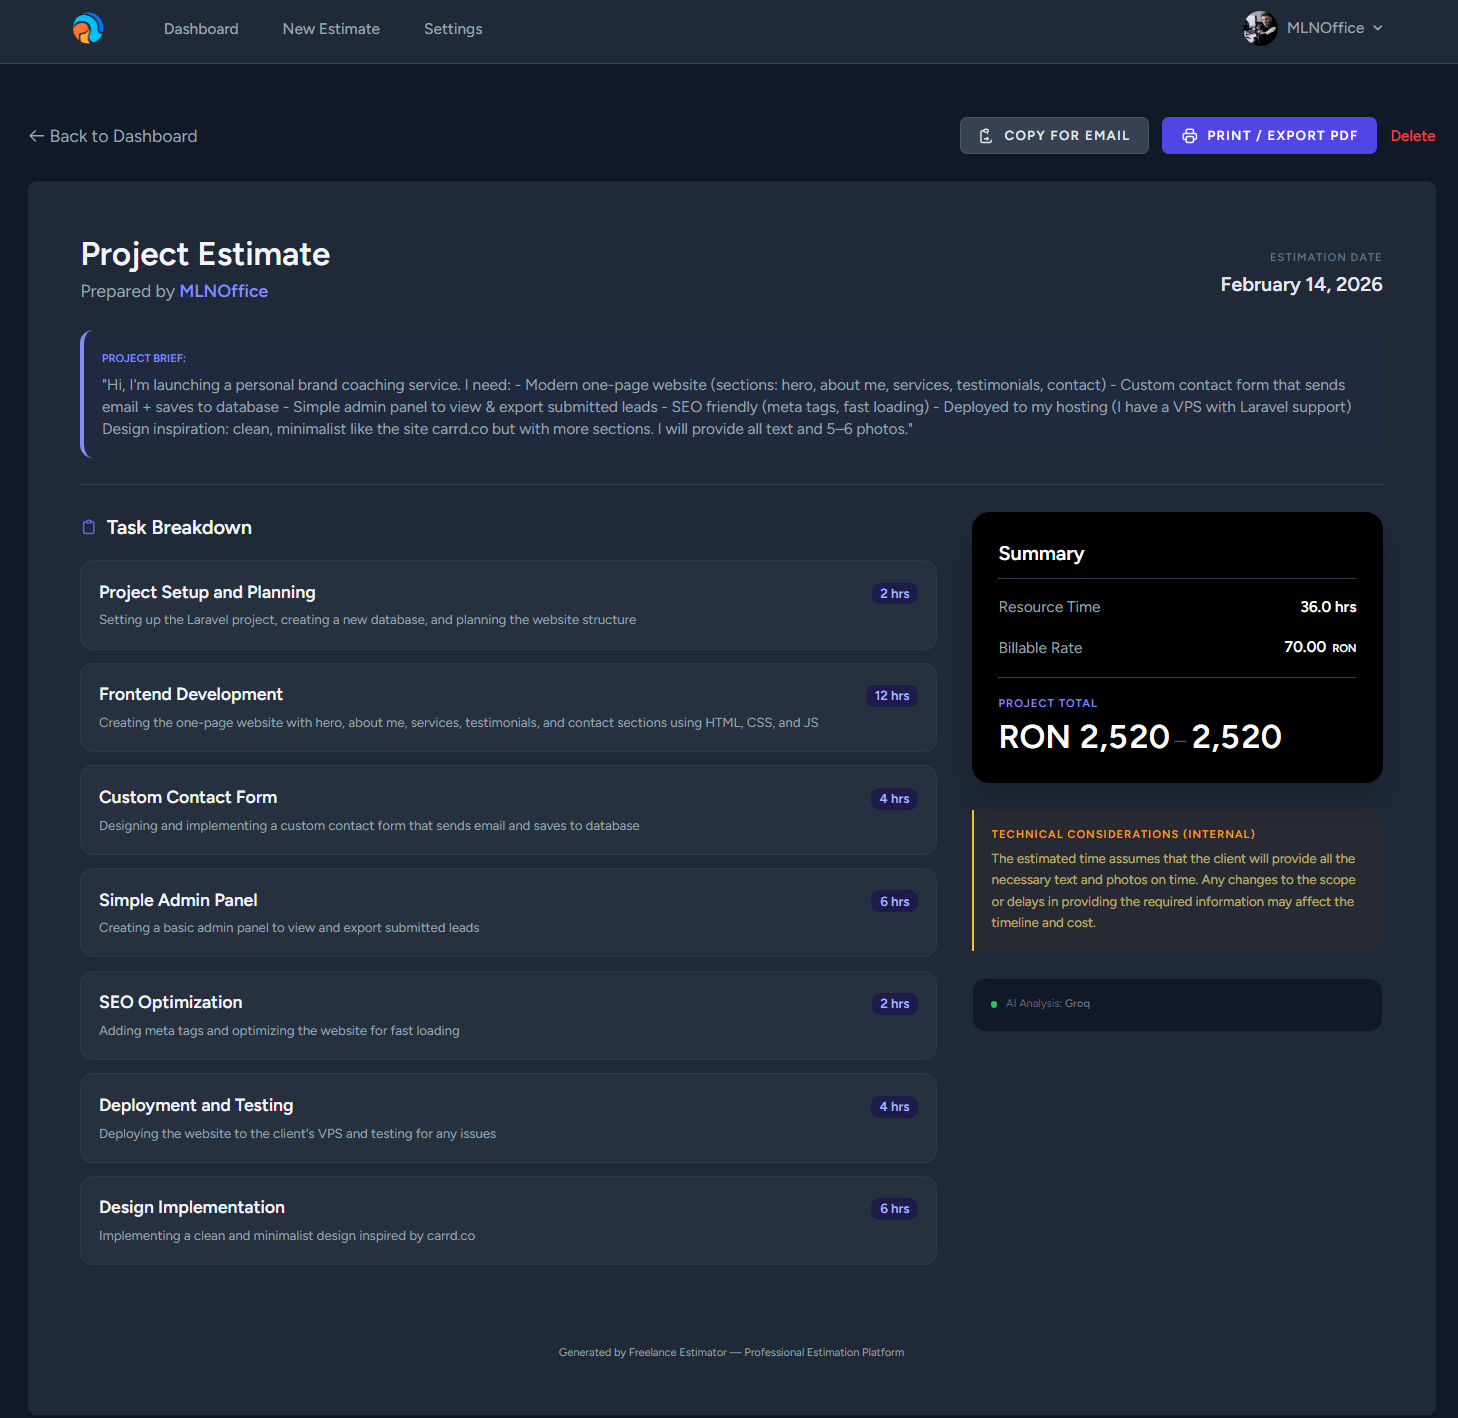
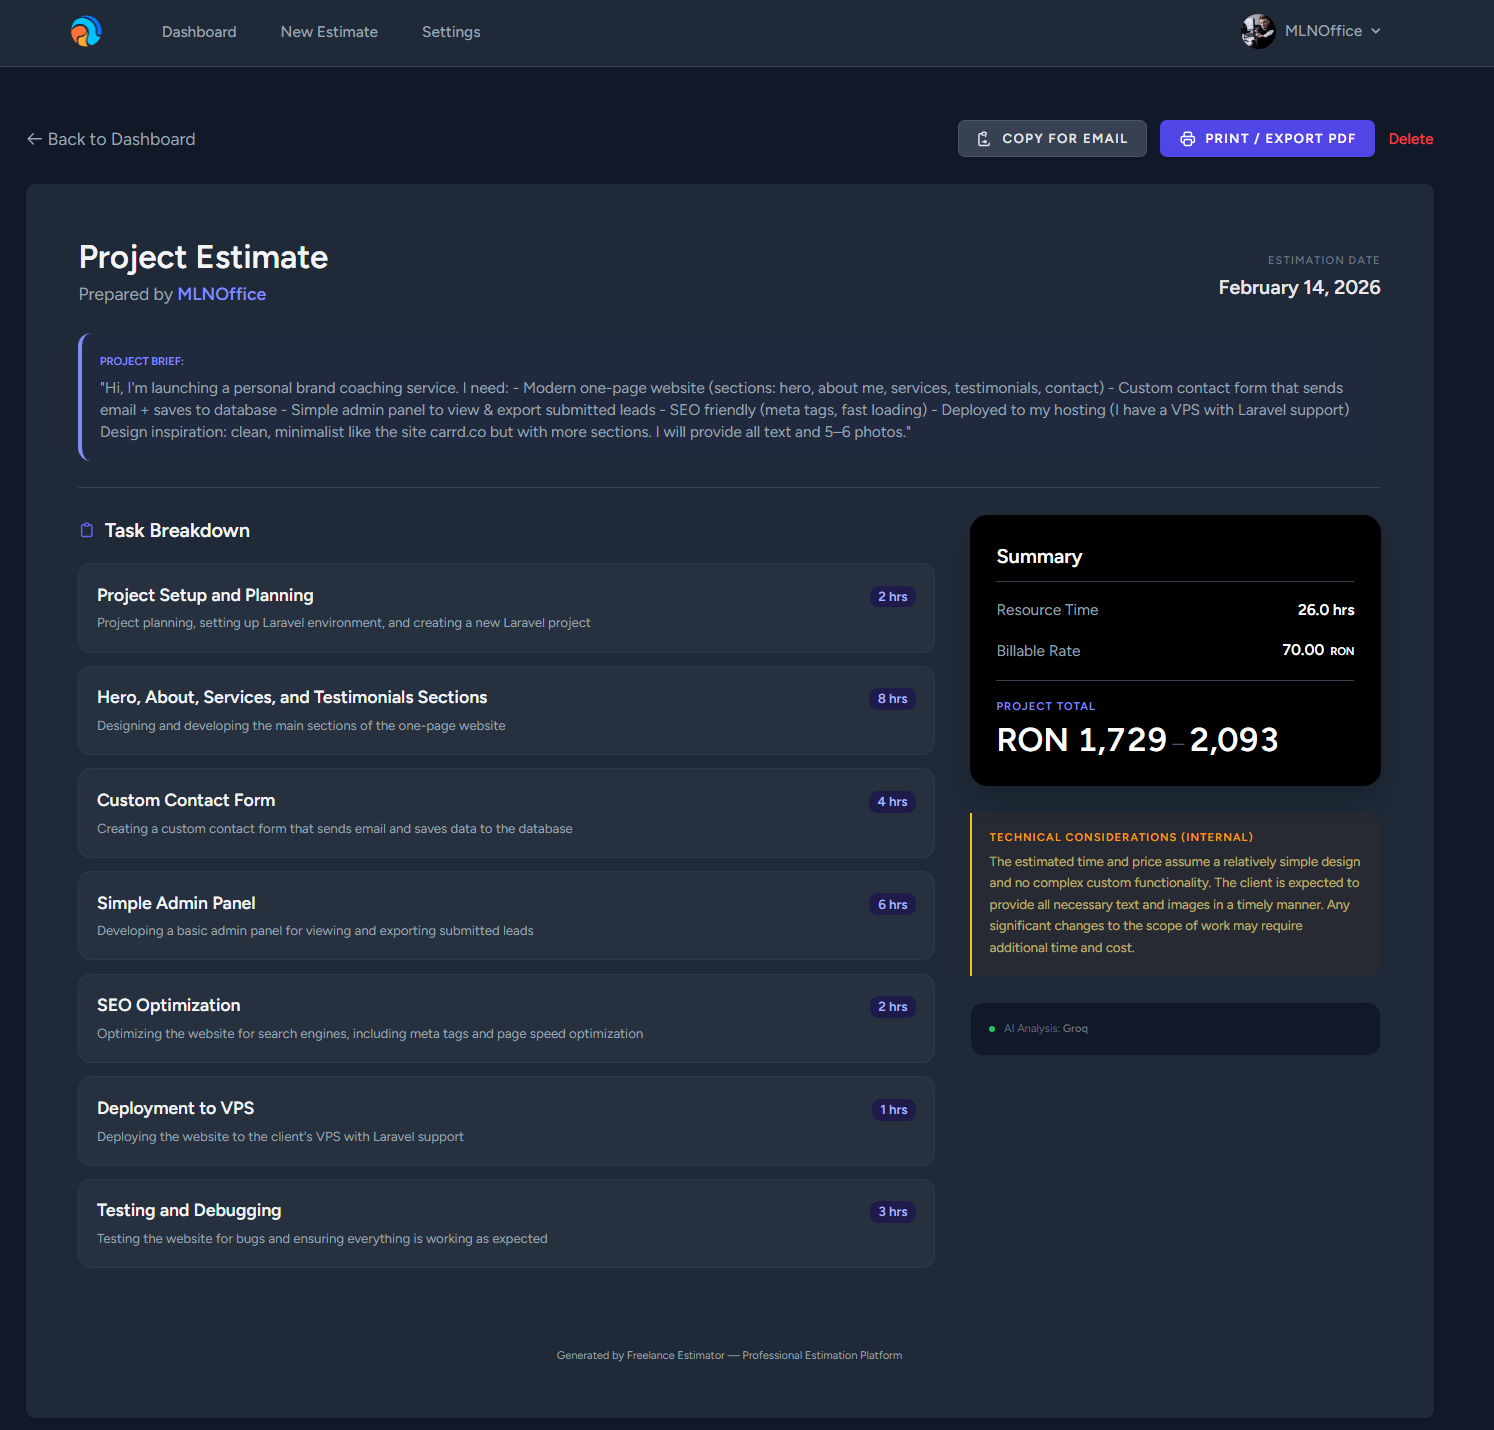
Better estimated Range

diff --git a/app/Livewire/ProposalEstimator.php b/app/Livewire/ProposalEstimator.php
@@ -180,26 +180,26 @@ PROMPT;
 
             $this->results = $data;
 
-            // Ensure we have a price spread (buffer)
+            // Ensure we have a meaningful price spread (buffer)
             $low = $this->results['total_price_low'];
             $high = $this->results['total_price_high'];
 
-            if ($low == $high) {
-                // If AI gave single number, create a 10-20% spread
+            // If spread is less than 5%, or values are identical, create a buffer
+            if ($high <= ($low * 1.05)) {
                 $this->results['total_price_low'] = round($low * 0.95);
-                $this->results['total_price_high'] = round($high * 1.15);
+                $this->results['total_price_high'] = round($low * 1.15);
             }
 
             // 5. Save History (if logged in)
             if (Auth::check()) {
                 $estimate = Auth::user()->estimates()->create([
                     'brief' => $this->brief,
-                    'result' => $data,
+                    'result' => $this->results, // Save the data inclusive of our buffer
                     'provider' => $this->provider,
                     'model' => $model,
-                    'total_hours' => $data['total_hours'] ?? 0,
-                    'price_low' => $data['total_price_low'] ?? 0,
-                    'price_high' => $data['total_price_high'] ?? 0,
+                    'total_hours' => $this->results['total_hours'] ?? 0,
+                    'price_low' => $this->results['total_price_low'] ?? 0,
+                    'price_high' => $this->results['total_price_high'] ?? 0,
                     'currency' => $this->currency,
                     'hourly_rate' => $this->hourly_rate,
                 ]);
